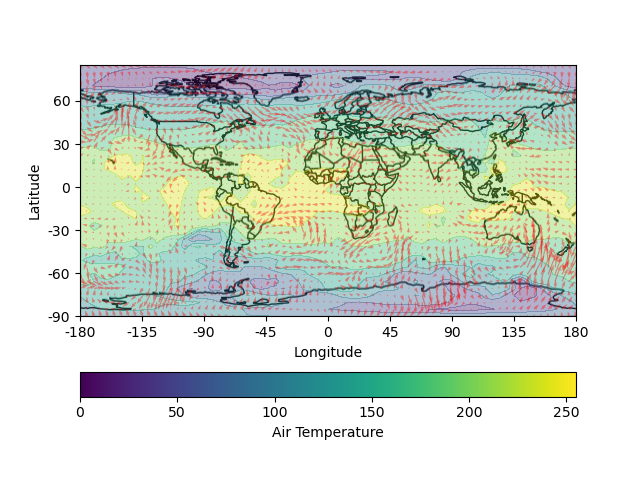
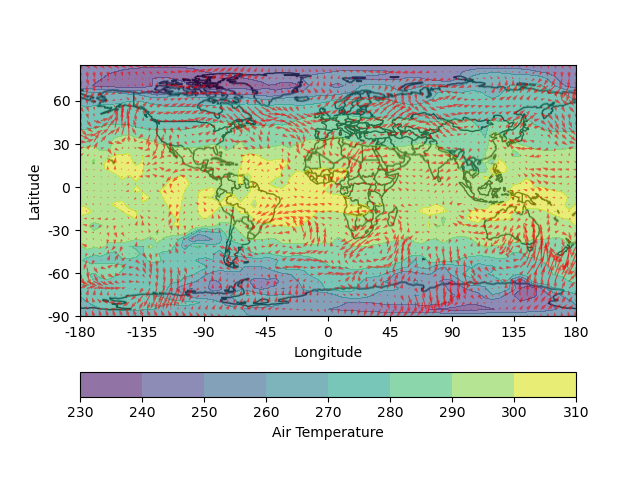
DeltaProfiles code + pngs added; aux .pys updated; colorbar bug fixed w/updated png

diff --git a/makePlots.py b/makePlots.py
@@ -6,7 +6,7 @@ def make_daily_plots():
 	weeklyPlotsMain = np.load("outData/9qty-7day-2dSpatial_profiles_9x7x73x144_.npy")
 	titles = ['at_Surface','_250mbar','_850mbar']
 	basic = np.linspace(-1,62,9,endpoint=False)
-	week = []#np.empty((7,9))
+	week = []
 	newWeekly = weeklyPlotsMain.reshape(63,73,144)
 	for i in range(7):
 		basic = [e + 1 for e in basic]
@@ -26,7 +26,6 @@ def make_daily_plots():
 		levelTitleCount = 0
 		for level in restructuredDay:
 			airT, uwnd, vwnd = level[0], level[1], level[2]
-			print(airT.max())
 			fig = plt.figure()
 			ax = plt.axes()
 			plt.imshow(im,extent=[0,71,0,180/5])
@@ -34,11 +33,58 @@ def make_daily_plots():
 			plt.ylabel("Latitude")
 			plt.xticks(x,xLabels)
 			plt.yticks(y,yLabels)
-			ax.contourf(airT,alpha=0.4)
-			plt.colorbar(ax=ax, label="Air Temperature", orientation="horizontal")
-			plt.quiver(uwnd,vwnd,color='red',alpha=0.4)
+			cs = ax.contourf(airT,alpha=0.6)
+			plt.colorbar(cs, ax=ax, label="Air Temperature", orientation="horizontal")
+			plt.quiver(uwnd,vwnd,color='red',alpha=0.6)
 			plt.savefig('finalOutput_plots/dailyProfiles/day' + str(dayTitleCount) + titles[levelTitleCount])
+			plt.cla()
 			plt.clf()
+			plt.close()
 			levelTitleCount += 1
 		dayTitleCount += 1
 	return 0
+
+def make_delta_plots():
+	diffDataMain = np.load('outData/3x3qtyDiff-2dSpatial_profiles_3x3x6x73x144_.npy')
+	titles = ['at_Surface','_250mbar','_850mbar']
+	im = Image.open("globalMap.png")
+	x = np.linspace(0,71,num=9,endpoint=True)
+	xLabels = [str(i) for i in list(np.arange(start=-180,stop=181,step=45))]
+	y = np.linspace(0,37,num=7,endpoint=True)
+	yLabels = [str(i) for i in list(np.arange(start=-90,stop=91,step=30))]
+	diffDataMain = diffDataMain.reshape(9,6,73,144)
+	diffDataMain = np.rot90(diffDataMain)
+	diffDataMain = diffDataMain.reshape(6,3,3,73,144)
+	dayTitleCount = 1
+	for day in diffDataMain:
+		day = np.rot90(day)
+		levelTitleCount = 0
+		for level in day:
+			airT, uwnd, vwnd = level[0], level[1], level[2]
+			airT = airT[::2,::2]
+			uwnd = uwnd[::2,::2]
+			vwnd = vwnd[::2,::2]
+			fig = plt.figure()
+			ax = plt.axes()
+			cs = ax.contourf(range(72),range(37),airT,alpha=0.6)
+			plt.imshow(im,extent=[0,71,0,180/5])
+			plt.xlabel("Longitude")
+			plt.ylabel("Latitude")
+			plt.xticks(x,xLabels)
+			plt.yticks(y,yLabels)
+			plt.colorbar(cs,ax=ax,use_gridspec=False,label="Change in Air Temperature",orientation='horizontal')
+			plt.quiver(uwnd,vwnd,color='red',alpha=0.6)
+			plt.savefig('finalOutput_plots/deltaProfiles/day' + str(dayTitleCount) 
+				+ "to" + str(dayTitleCount + 1) + titles[levelTitleCount])
+			plt.clf()
+			plt.cla()
+			plt.close(fig)
+			levelTitleCount += 1
+		dayTitleCount += 1
+	return 0
+			
+
+
+
+make_daily_plots()
+make_delta_plots()

diff --git a/genProfiles.py b/genProfiles.py
@@ -2,22 +2,6 @@ from pullData import getDates
 import numpy as np
 from netCDF4 import Dataset
 
-#year, month, date, monthConversion = getDates()
-monthConversion = {
-		"January" : [1,31],
-		"February" : [2,28],
-		"March" : [3,31],
-		"April" : [4,30],
-		"May" : [5,31],
-		"June" : [6,30],
-		"July" : [7,31],
-		"August" : [8,31],
-		"September" : [9,30],
-		"October" : [10,31],
-		"November" : [11,30],
-		"December" : [12,31]
-	}
-
 def generate_daily_profs(year,month,date,monthConversion):
 	# Opening netCDF4 files
 	NC_airTsurf = Dataset("datasets/air.sig995." + str(year) + ".nc", "r", format="NETCDF4")
@@ -83,7 +67,6 @@ def diffs_gen():
 	for variable in mainData:
 		varDiff = []
 		for alt in variable:
-			#print(alt.shape)
 			altDiff = []
 			for stateIndex in range(1,len(alt)):
 				altDiff.append(alt[stateIndex] - alt[stateIndex-1])
@@ -92,6 +75,6 @@ def diffs_gen():
 	np.save("outData/3x3qtyDiff-2dSpatial_profiles_3x3x6x73x144_.npy",mainDiff)
 	return 0
 
-generate_daily_profs(2020,"November",7,monthConversion)
+#generate_daily_profs(2020,"November",7,monthConversion)
 diffs_gen()
 # npy example centered on November 7 2020.

diff --git a/cleanup.py b/cleanup.py
@@ -3,7 +3,7 @@ import os
 def clean():
 	datasets = 'datasets/'
 	dailyProfiles_imgs = 'finalOutput_plots/dailyProfiles'
-	dailyChanges_imgs = 'finalOutput_plots/dailyChanges'
+	dailyChanges_imgs = 'finalOutput_plots/deltaProfiles'
 	npys = 'outData/'
 	foldersMain = [datasets, dailyProfiles_imgs, dailyChanges_imgs, npys]
 	for dataset in os.listdir(datasets):

diff --git a/runMain.py b/runMain.py
@@ -29,6 +29,7 @@ def main():
 	diffs_gen()
 	createGlobalMap()
 	make_daily_plots()
+	make_delta_plots()
 
 	
 
